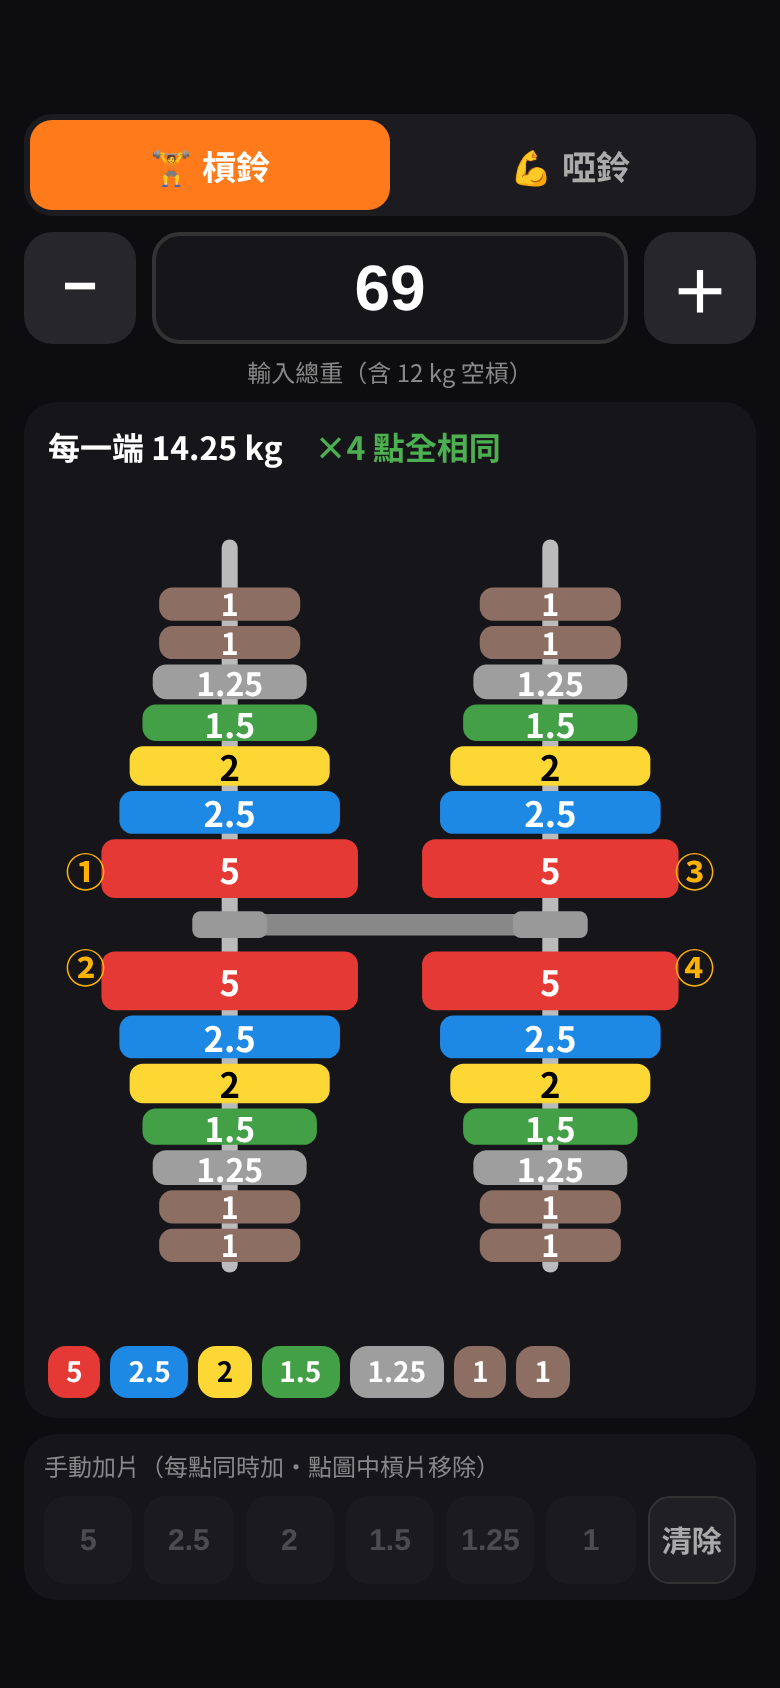
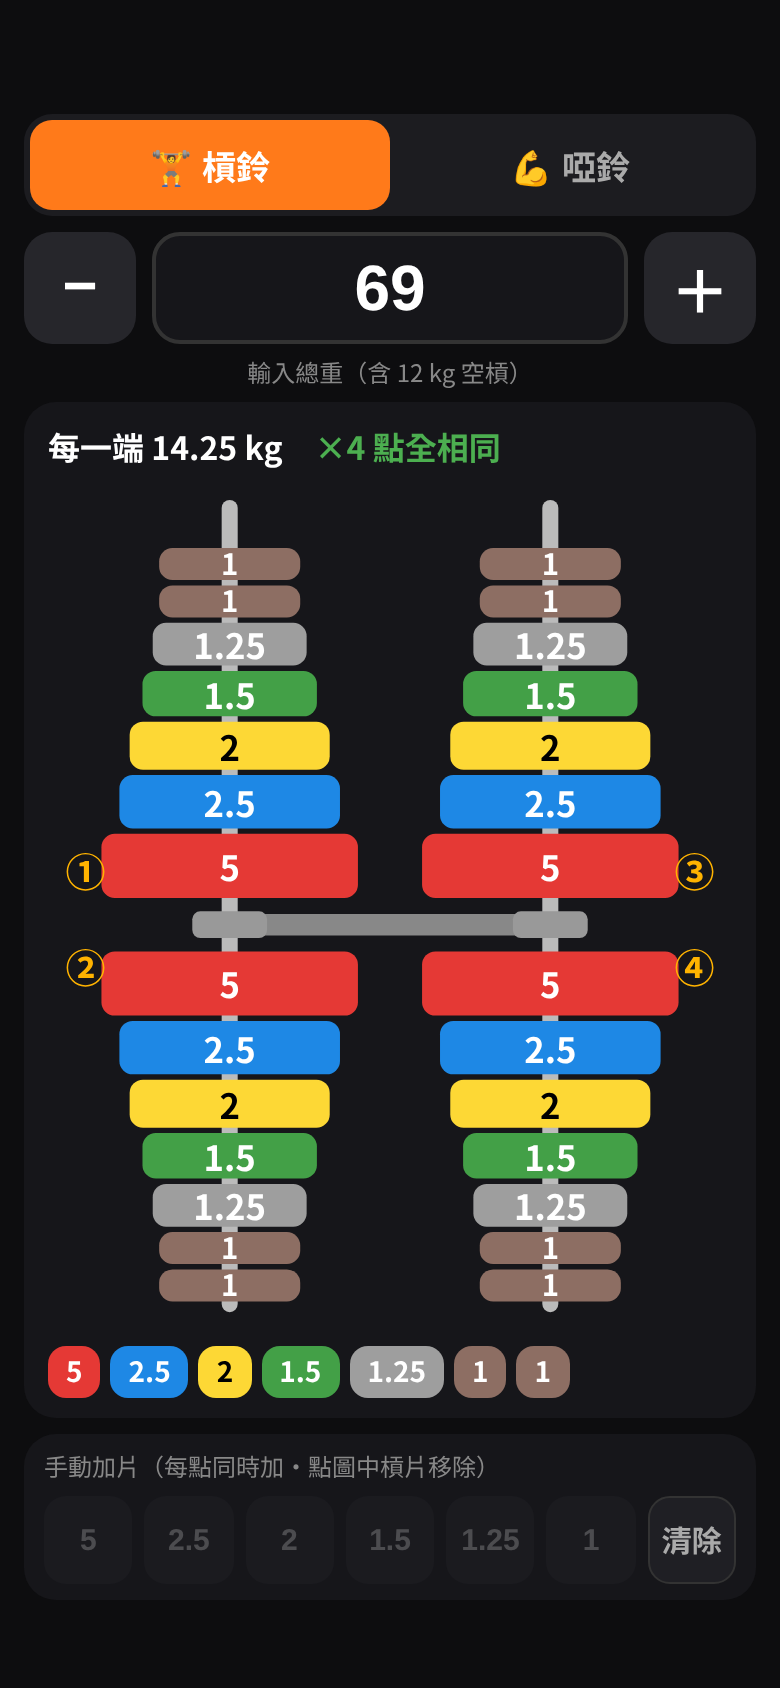
Thicker mid plates, v17

diff --git a/index.html b/index.html
@@ -42,14 +42,14 @@ svg rect.pl{cursor:pointer}
 <div class="tog"><button id="bb" class="on">🏋 槓鈴</button><button id="db">💪 啞鈴</button></div>
 <div class="in"><button id="mn">−</button><input id="w" inputmode="decimal" value="42"><button id="pl">＋</button></div>
 <div class="hint" id="hint"></div><div class="card" id="out"></div><div class="bld"><div class="lb">手動加片（每點同時加・點圖中槓片移除）</div><div class="pbs" id="pbs"></div></div>
-<script src="data.js?v=16"></script><script>
+<script src="data.js?v=17"></script><script>
 const P=[[1,'#8d6e63','1',.55],[1.25,'#9e9e9e','1.25',.6],[1.5,'#43a047','1.5',.68],[2,'#fdd835','2',.78],[2.5,'#1e88e5','2.5',.86],[5,'#e53935','5',1]];
 let eq='槓鈴';const $=id=>document.getElementById(id),W=$('w');
 const T=x=>+(2*x).toFixed(2),tot=t=>eq==='啞鈴'?`<div class="tot">兩支合計 ${t} kg</div>`:'';
 const rows=()=>ROWS.filter(r=>r.e===eq);
 function plates(c){let a=[];for(let i=5;i>=0;i--)for(let k=0;k<c[i];k++)a.push(P[i]);return a}
 function OLDsvg(c){const a=plates(c);let x=40,s='';const H=150;
- a.forEach(p=>{const w=p[0]>=2.5?30:p[0]>=1.5?24:20,h=H*p[3];
+ a.forEach(p=>{const w=TW[P.indexOf(p)],h=H*p[3];
  s+=`<rect class="pl" onclick="rm(${P.indexOf(p)})" x="${x}" y="${(170-h)/2}" width="${w}" height="${h}" rx="4" fill="${p[1]}"/><text x="${x+w/2}" y="${(170-h)/2+h+16}" fill="#ddd" font-size="12" font-weight="700" text-anchor="middle">${p[2]}</text>`;x+=w+3});
  const L=Math.max(x+40,300);
  return `<svg viewBox="0 0 ${L} 190" preserveAspectRatio="xMidYMid meet"><rect x="0" y="72" width="34" height="26" fill="#777"/><rect x="34" y="60" width="6" height="50" fill="#999"/><rect x="40" y="76" width="${L-40}" height="18" rx="3" fill="#bbb"/>${s}</svg>`}
@@ -77,7 +77,7 @@ function clr(){manual=[0,0,0,0,0,0];W.value=wOf(manual);render()}
 function renderManual(){const m=manual;$('out').innerHTML=`<div class="st">每一端 ${+sum(m).toFixed(2)} kg　<span style="color:#4caf50">×4 點全相同</span></div>${svg(m)}<div class="chips">${chips(m)}</div>`+tot(wOf(m)*2/1&&T(wOf(m)))}
 function num(x){const n=parseFloat(String(x).replace(/[，,]/g,'.').replace(/[^0-9.]/g,''));return isNaN(n)?NaN:Math.round(n*20)/20}
 function mini(c){const g=['#fff','#e6e6e6','#cfcfcf','#b5b5b5','#9a9a9a','#7d7d7d'];return '<div class="bl">'+(plates(c).map(p=>{const i=P.indexOf(p);return `<i style="background:${g[i]};${i>=4?'color:#fff':''}">${p[2]}</i>`}).join('')||'<i style="background:#333;color:#888">空</i>')+'</div>'}
-const GR=['#f2f2f2','#d9d9d9','#bdbdbd','#a0a0a0','#808080','#5c5c5c'];
+const TH=[12,16,17,18,20,24],TW=[18,24,25,27,30,32];const GR=['#f2f2f2','#d9d9d9','#bdbdbd','#a0a0a0','#808080','#5c5c5c'];
 function grp(c,x0,dir,cy,H){let x=x0,s='';plates(c).forEach(p=>{const i=P.indexOf(p),w=8+p[0]*1.8,h=H*p[3],X=dir>0?x:x-w;
  s+=`<rect class="pl" onclick="rm(${i})" x="${X}" y="${cy-h/2}" width="${w}" height="${h}" rx="2" fill="${GR[i]}" stroke="#111" stroke-width="1"/><text x="${X+w/2}" y="${cy}" transform="rotate(-90 ${X+w/2} ${cy})" fill="${i>=4?'#fff':'#111'}" font-size="${Math.min(11,w-1)}" font-weight="800" text-anchor="middle" dominant-baseline="central">${p[2]}</text>`;x+=dir*(w+2)});return [s,Math.abs(x-x0)]}
 function hshape(groups,cy,H,mid,lab){/* groups: [leftInner,leftOuter?] [rightInner,rightOuter?] */
@@ -92,10 +92,10 @@ function hshape(groups,cy,H,mid,lab){/* groups: [leftInner,leftOuter?] [rightInn
  let x=cx0-10;L.forEach((c,k)=>{const [g,w]=grp(c,x,-1,cy,H);const ww=Math.max(w,14);s+=g+`<text x="${x-ww/2}" y="${cy+H/2+14}" fill="#ffb300" font-size="13" font-weight="800" text-anchor="middle">${lab[0][k]}</text>`;x-=ww+12});
  x=cx1+10;R.forEach((c,k)=>{const [g,w]=grp(c,x,1,cy,H);const ww=Math.max(w,14);s+=g+`<text x="${x+ww/2}" y="${cy+H/2+14}" fill="#ffb300" font-size="13" font-weight="800" text-anchor="middle">${lab[1][k]}</text>`;x+=ww+12});
  return [s,W]}
-function vstack(c,cx,y0,dir,PW){let y=y0,s='';plates(c).forEach(p=>{const i=P.indexOf(p),h=10+p[0]*2.4,w=PW*p[3],Y=dir>0?y:y-h;
+function vstack(c,cx,y0,dir,PW){let y=y0,s='';plates(c).forEach(p=>{const i=P.indexOf(p),h=TH[i],w=PW*p[3],Y=dir>0?y:y-h;
  s+=`<rect class="pl" onclick="rm(${i})" x="${cx-w/2}" y="${Y}" width="${w}" height="${h}" rx="5" fill="${P[i][1]}"/><text x="${cx}" y="${Y+h/2}" fill="${i==3?'#000':'#fff'}" font-size="${Math.min(13,h-1)}" font-weight="800" text-anchor="middle" dominant-baseline="central">${p[2]}</text>`;y+=dir*(h+2)});return [s,Math.abs(y-y0)]}
 function plan(pts){
- if(eq==='槓鈴'){const PW=96,mid=120,meas=c=>plates(c).reduce((a,p)=>a+10+p[0]*2.4+2,0),up=Math.max(meas(pts[0]),meas(pts[2]),20),dn=Math.max(meas(pts[1]),meas(pts[3]),20);
+ if(eq==='槓鈴'){const PW=96,mid=120,meas=c=>plates(c).reduce((a,p)=>a+TH[P.indexOf(p)]+2,0),up=Math.max(meas(pts[0]),meas(pts[2]),20),dn=Math.max(meas(pts[1]),meas(pts[3]),20);
   const xl=PW/2+20,xr=xl+mid,W=xr+PW/2+20,cy=22+up+12,Hh=cy+12+dn+8;let s='';
   s+=`<rect x="${xl}" y="${cy-4}" width="${mid}" height="8" rx="3" fill="#888"/>`;
   [xl,xr].forEach(x=>s+=`<rect x="${x-3}" y="8" width="6" height="${Hh-16}" rx="3" fill="#bbb"/><rect x="${x-14}" y="${cy-5}" width="28" height="10" rx="3" fill="#999"/>`);

diff --git a/sw.js b/sw.js
@@ -1,4 +1,4 @@
-const C='plates-v16',F=['./','index.html','data.js?v=16','manifest.json','icon-v8-180.png','apple-touch-icon.png','icon-192.png','icon-v8-512.png'];
+const C='plates-v17',F=['./','index.html','data.js?v=17','manifest.json','icon-v8-180.png','apple-touch-icon.png','icon-192.png','icon-v8-512.png'];
 self.addEventListener('install',e=>{self.skipWaiting();e.waitUntil(caches.open(C).then(c=>c.addAll(F)))});
 self.addEventListener('activate',e=>e.waitUntil(caches.keys().then(ks=>Promise.all(ks.filter(k=>k!==C).map(k=>caches.delete(k)))).then(()=>self.clients.claim())));
 self.addEventListener('fetch',e=>{const u=new URL(e.request.url);if(e.request.method!=='GET'||u.origin!==location.origin)return;
